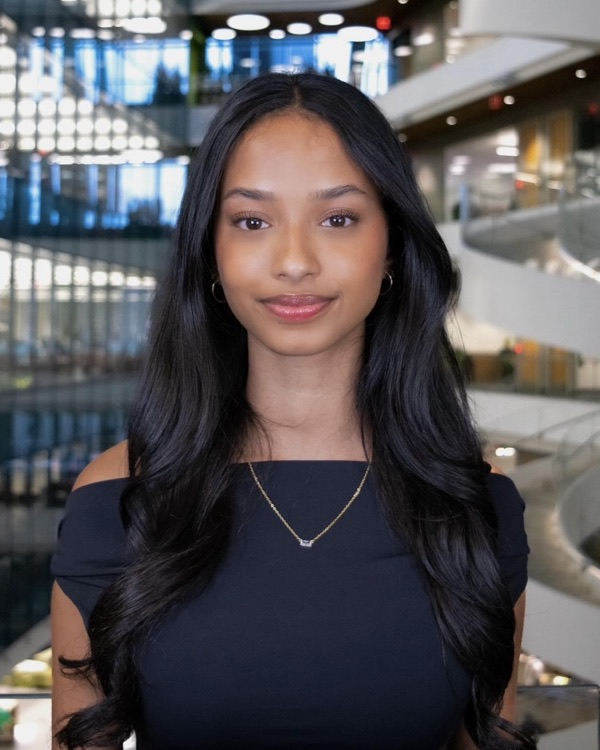
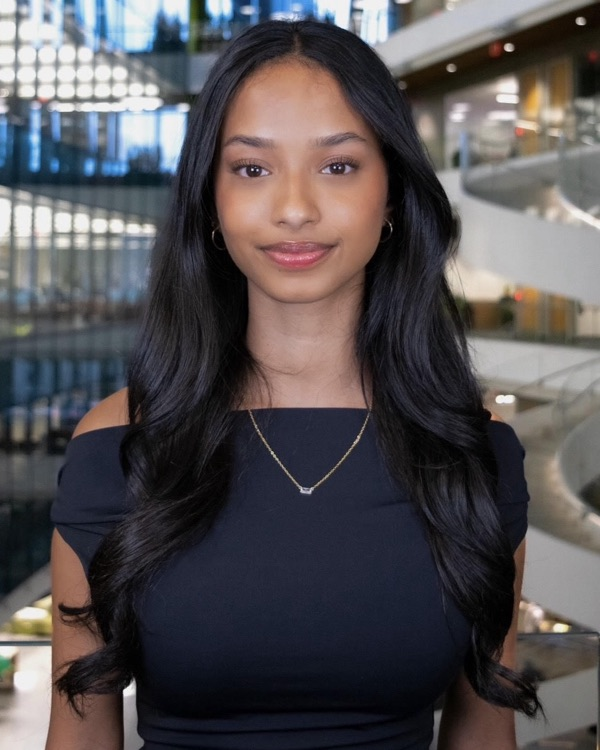
Order e-board by team; tighten Pranati's crop
Officers and chairs follow the e-board graphic: Operations, then
Communications, then Development. Pranati's headshot now starts at the
top of her head; ?v=3 makes browsers fetch the new image.

diff --git a/leadership.html b/leadership.html
@@ -87,14 +87,14 @@
             <p>VP of Operations</p>
           </li>
           <li class="person">
-            <img src="assets/team/wasi-naqvi.jpg" alt="Wasi Naqvi" width="600" height="750">
-            <h3>Wasi Naqvi</h3>
-            <p>VP of Development</p>
-          </li>
-          <li class="person">
             <img src="assets/team/david-ostrowsky.jpg" alt="David Ostrowsky" width="600" height="750">
             <h3>David Ostrowsky</h3>
             <p>VP of Communications</p>
+          </li>
+          <li class="person">
+            <img src="assets/team/wasi-naqvi.jpg" alt="Wasi Naqvi" width="600" height="750">
+            <h3>Wasi Naqvi</h3>
+            <p>VP of Development</p>
           </li>
         </ul>
       </div>
@@ -108,14 +108,9 @@
         </header>
         <ul class="people people-chairs" role="list">
           <li class="person">
-            <img src="assets/team/evelyna-pavlatos.jpg" alt="Evelyna Pavlatos" width="600" height="750" loading="lazy">
-            <h3>Evelyna Pavlatos</h3>
-            <p>Academic Chair</p>
-          </li>
-          <li class="person">
-            <img src="assets/team/aryaman-desai.jpg" alt="Aryaman Desai" width="600" height="750" loading="lazy">
-            <h3>Aryaman Desai</h3>
-            <p>Community Engagement Chair</p>
+            <img src="assets/team/marcus-tisdale.jpg" alt="Marcus Tisdale" width="600" height="750" loading="lazy">
+            <h3>Marcus Tisdale</h3>
+            <p>Professional Relations Chair</p>
           </li>
           <li class="person">
             <img src="assets/team/gurvani-singh.jpg" alt="Gurvani Singh" width="600" height="750" loading="lazy">
@@ -123,24 +118,14 @@
             <p>Financial Chair</p>
           </li>
           <li class="person">
-            <img src="assets/team/giovanni-amador.jpg" alt="Giovanni Amador" width="600" height="750" loading="lazy">
-            <h3>Giovanni Amador</h3>
-            <p>IISE Relations Chair</p>
+            <img src="assets/team/aryaman-desai.jpg" alt="Aryaman Desai" width="600" height="750" loading="lazy">
+            <h3>Aryaman Desai</h3>
+            <p>Community Engagement Chair</p>
           </li>
           <li class="person">
-            <img src="assets/team/marcus-tisdale.jpg" alt="Marcus Tisdale" width="600" height="750" loading="lazy">
-            <h3>Marcus Tisdale</h3>
-            <p>Professional Relations Chair</p>
-          </li>
-          <li class="person">
-            <img src="assets/team/ashton-daniels.jpg" alt="Ashton Daniels" width="600" height="750" loading="lazy">
-            <h3>Ashton Daniels</h3>
-            <p>Project Chair</p>
-          </li>
-          <li class="person">
-            <img src="assets/team/pranati-bala.jpg" alt="Pranati Bala" width="600" height="750" loading="lazy">
-            <h3>Pranati Bala</h3>
-            <p>Project Chair</p>
+            <img src="assets/team/nicole-resteghini.jpg" alt="Nicole Resteghini" width="600" height="750" loading="lazy">
+            <h3>Nicole Resteghini</h3>
+            <p>Social Chair</p>
           </li>
           <li class="person">
             <img src="assets/team/paris-chan.jpg" alt="Paris Chan" width="600" height="750" loading="lazy">
@@ -148,14 +133,29 @@
             <p>Public Relations Chair</p>
           </li>
           <li class="person">
+            <img src="assets/team/giovanni-amador.jpg" alt="Giovanni Amador" width="600" height="750" loading="lazy">
+            <h3>Giovanni Amador</h3>
+            <p>IISE Relations Chair</p>
+          </li>
+          <li class="person">
             <img src="assets/team/david-reznik.jpg" alt="David Reznik" width="600" height="750" loading="lazy">
             <h3>David Reznik</h3>
             <p>Skills Chair</p>
           </li>
           <li class="person">
-            <img src="assets/team/nicole-resteghini.jpg" alt="Nicole Resteghini" width="600" height="750" loading="lazy">
-            <h3>Nicole Resteghini</h3>
-            <p>Social Chair</p>
+            <img src="assets/team/evelyna-pavlatos.jpg" alt="Evelyna Pavlatos" width="600" height="750" loading="lazy">
+            <h3>Evelyna Pavlatos</h3>
+            <p>Academic Chair</p>
+          </li>
+          <li class="person">
+            <img src="assets/team/ashton-daniels.jpg" alt="Ashton Daniels" width="600" height="750" loading="lazy">
+            <h3>Ashton Daniels</h3>
+            <p>Project Chair</p>
+          </li>
+          <li class="person">
+            <img src="assets/team/pranati-bala.jpg?v=3" alt="Pranati Bala" width="600" height="750" loading="lazy">
+            <h3>Pranati Bala</h3>
+            <p>Project Chair</p>
           </li>
         </ul>
 
